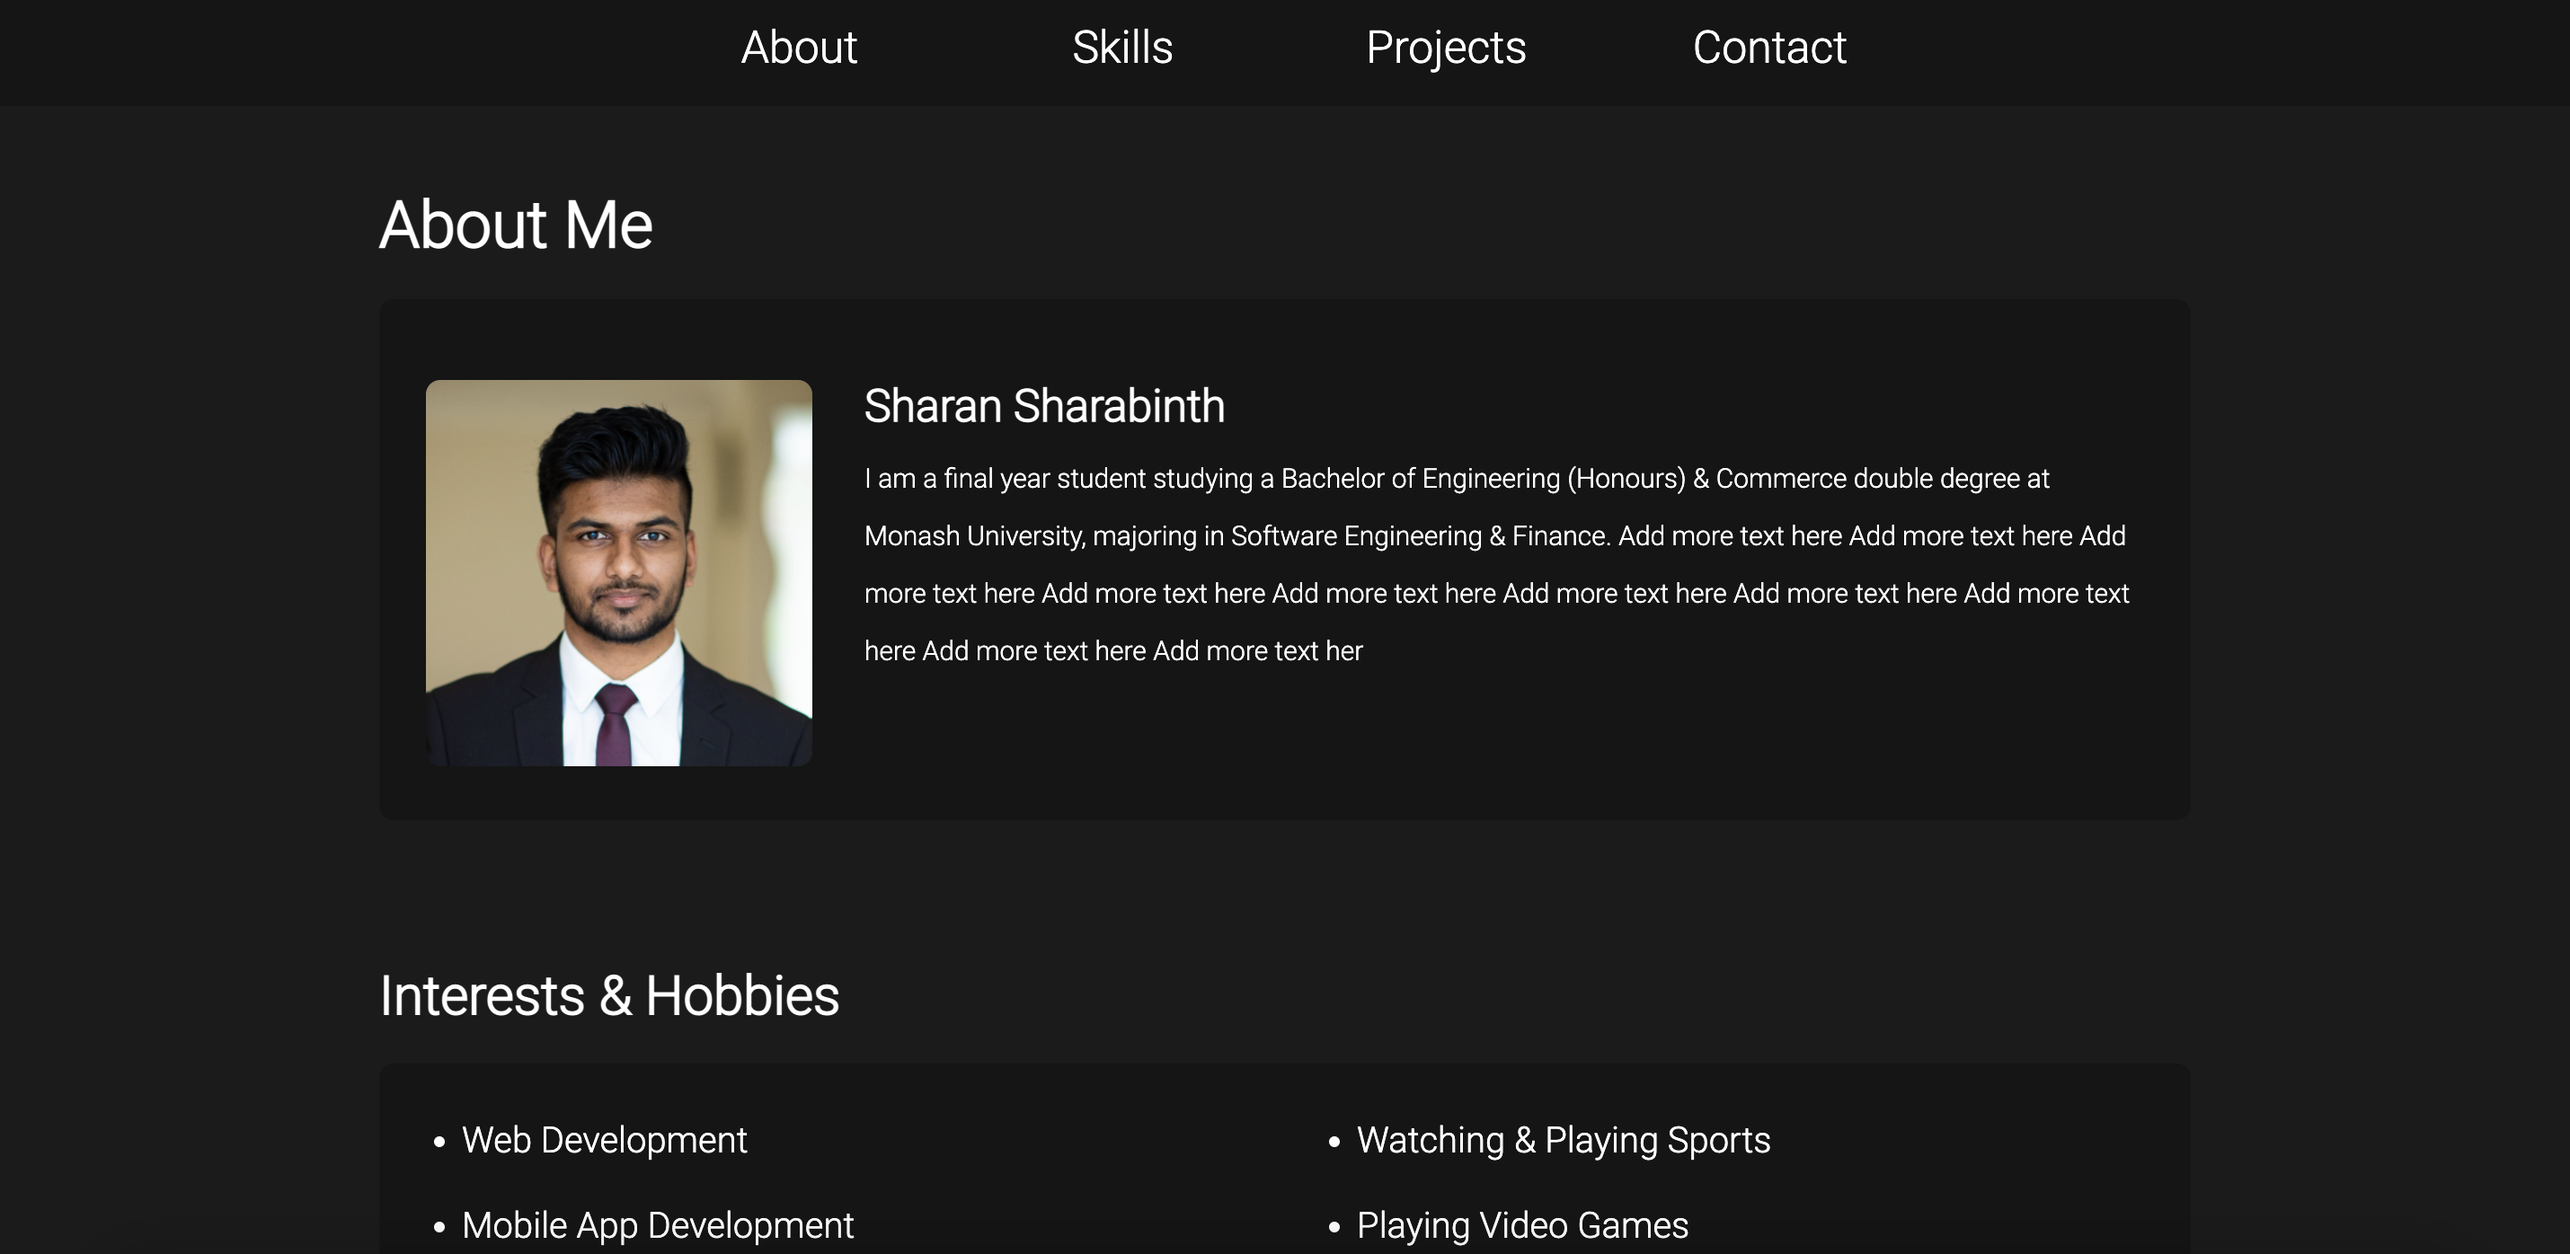
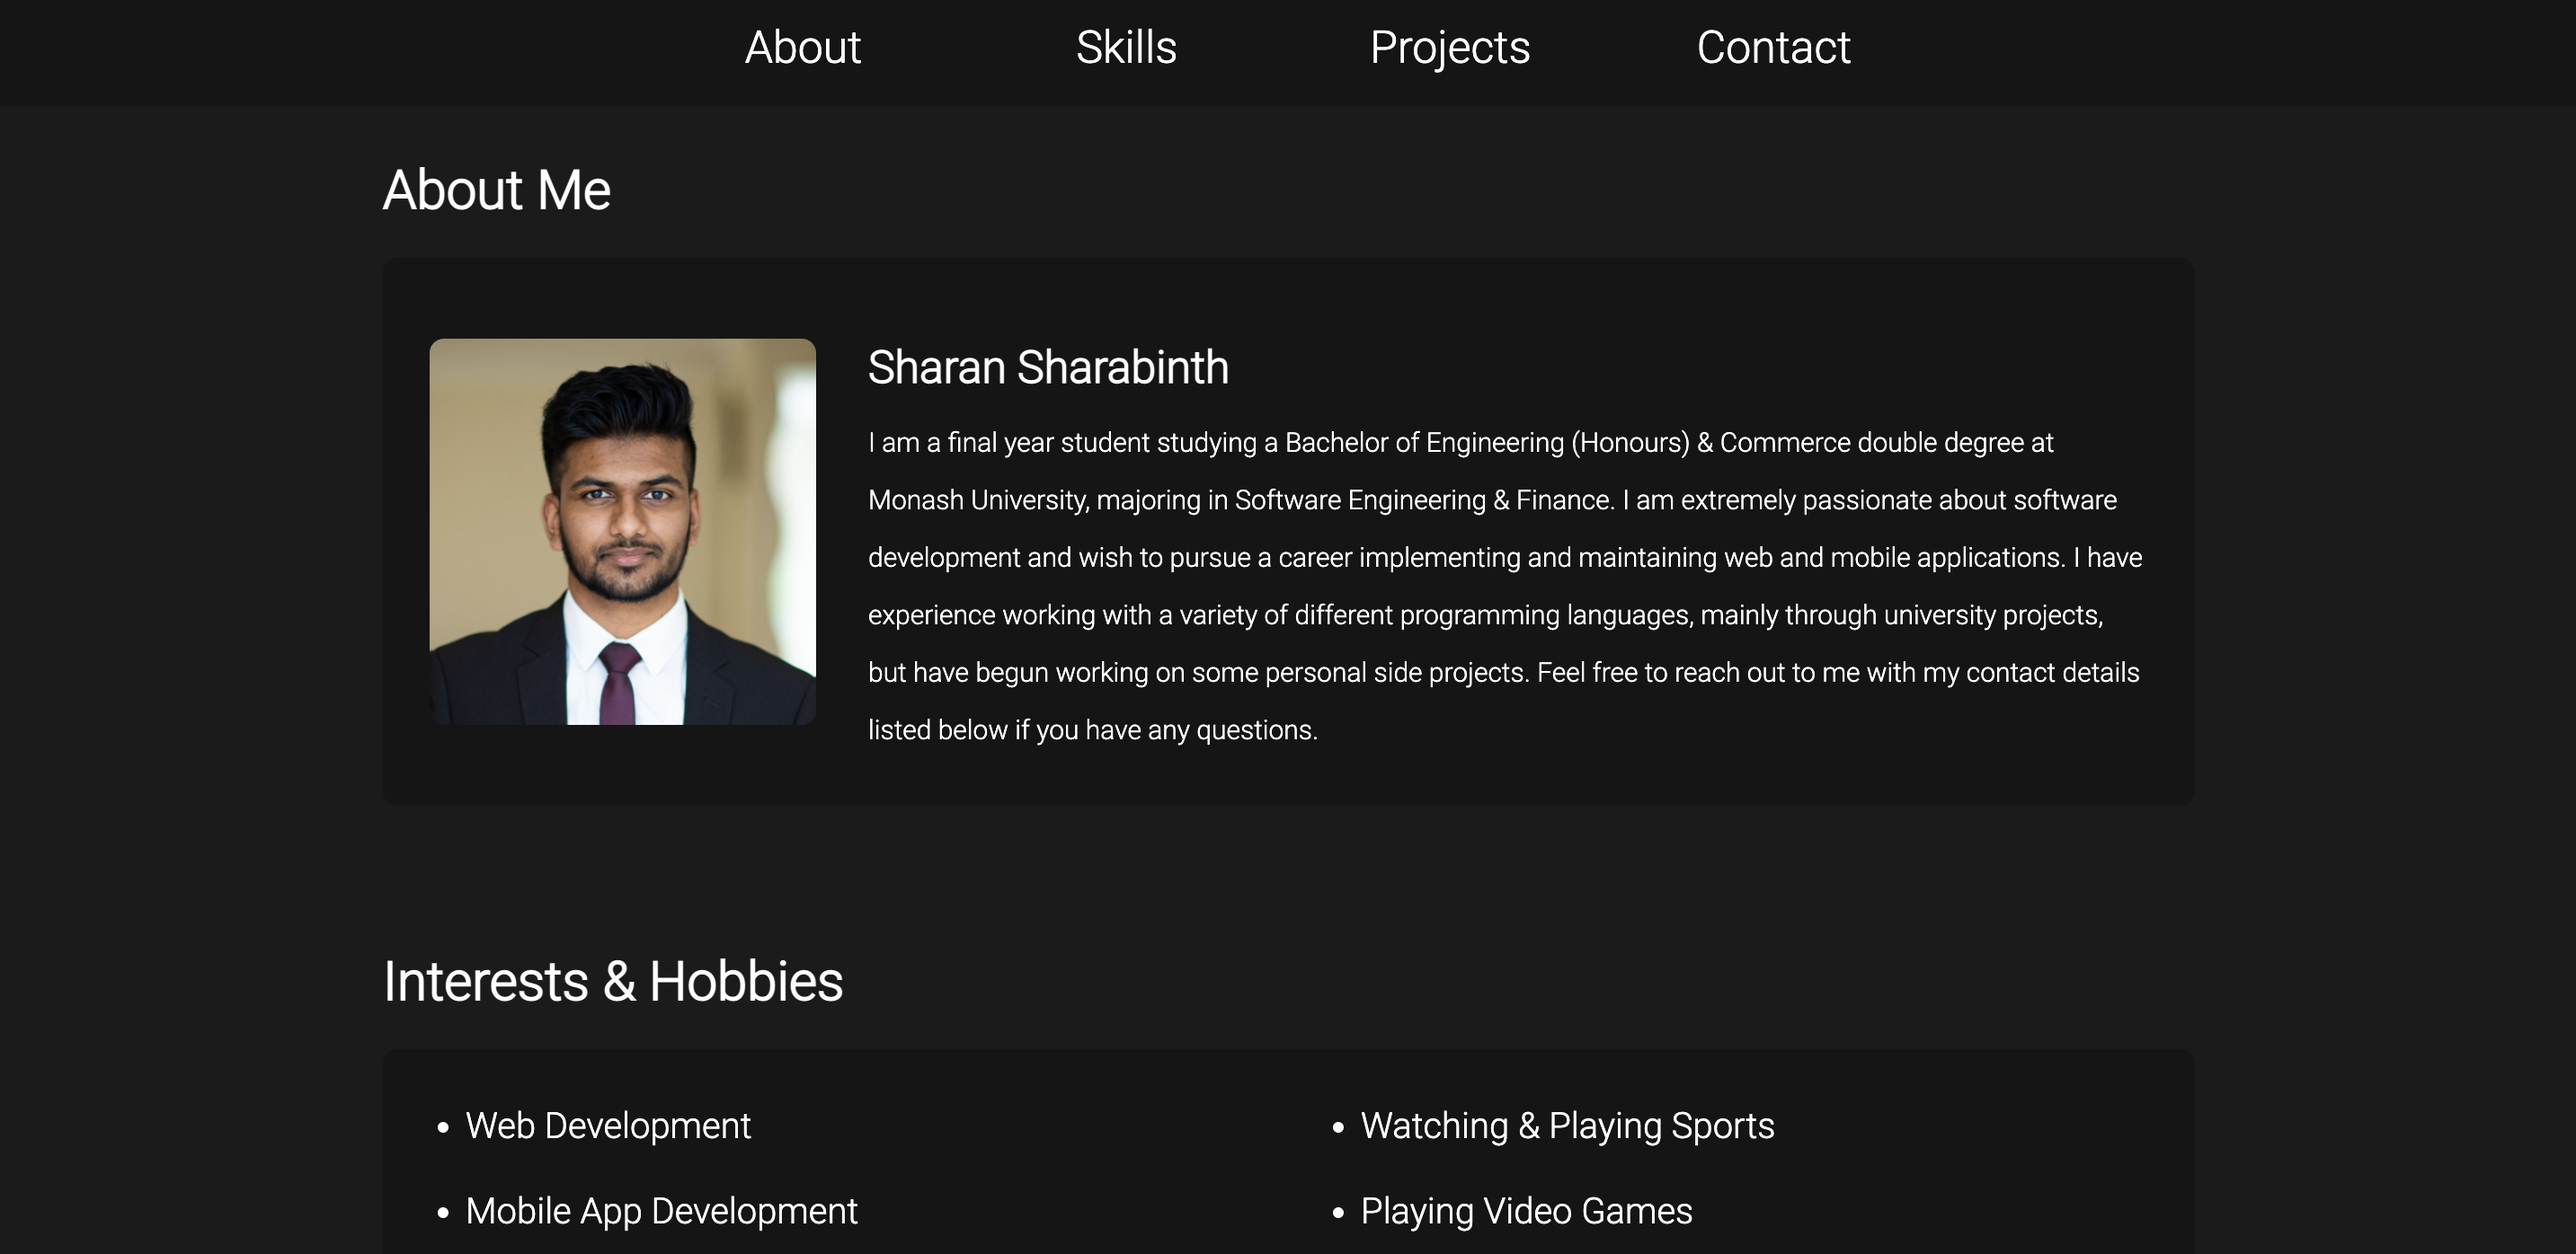
Update skills section

diff --git a/index.html b/index.html
@@ -38,9 +38,11 @@
                         <div class="about-me about-text">
                             <h4 class="about-me-title">Sharan Sharabinth</h4>
                             <p class="about-me-text">
-                                I am a final year student studying a Bachelor of Engineering (Honours) & Commerce double degree at Monash University, majoring in Software Engineering & Finance.
-                                Add more text here Add more text here Add more text here Add more text here Add more text here Add more text here
-                                Add more text here Add more text here Add more text here Add more text her
+                                I am a final year student studying a Bachelor of Engineering (Honours) & Commerce double degree at Monash University, 
+                                majoring in Software Engineering & Finance. I am extremely passionate about software development and wish to pursue a 
+                                career implementing and maintaining web and mobile applications. I have experience working with a variety of different 
+                                programming languages, mainly through university projects, but have begun working on some personal side projects. Feel 
+                                free to reach out to me with my contact details listed below if you have any questions.
                             </p>
                         </div>
                     </div>
@@ -72,6 +74,9 @@
                                 <p>Python</p>
                             </div>
                             <div>
+                                <p>Java</p>
+                            </div>
+                            <div>
                                 <p>JavaScript</p>
                             </div>
                             <div>
@@ -83,23 +88,28 @@
                             <div>
                                 <p>React</p>
                             </div>
+                        </div>
+                        <div class="tech-skills-row-2 flex-row">
                             <div>
                                 <p>AWS CloudFormation</p>
                             </div>
                             <div>
-                                <p>SQL</p>
-                            </div>
-                        </div>
-                        <div class="tech-skills-row-2 flex-row">
-                            <div>
-                                <p>C</p>
+                                <p>Express</p>
                             </div>
                             <div>
                                 <p>NodeJS</p>
                             </div>
                             <div>
-                                <p>Express</p>
+                                <p>MongoDB</p>
                             </div>
+                            <div>
+                                <p>c</p>
+                            </div>
+                            <div>
+                                <p>SQL</p>
+                            </div>
+                        </div>
+                        <div class="tech-skills-row-3 flex-row">
                             <div>
                                 <p>Android Studio</p>
                             </div>
@@ -112,6 +122,12 @@
                             <div>
                                 <p>GIT</p>
                             </div>
+                            <div>
+                                <p>MATLAB</p>
+                            </div>
+                            <div>
+                                <p>SQL</p>
+                            </div>
                         </div>
                     </div>
 
@@ -121,7 +137,7 @@
                         <div class="flex-column">
                             <div class="projects-grid">
                                 <div class="projects-container flex-column">
-                                    <div><img class="project-image" src="./Images/portfolio.png" alt=""></div>
+                                    <div><img class="project-image" src="./Images/portfolio.png" alt="" onclick="window.open('https://man-utd.herokuapp.com/', '_blank')"></div>
                                     <div class="text-container flex-column">
                                         <h5>Portfolio</h5>
                                         <p class="project-desc">My portfolio, which you are currently viewing. This was built from scratch.</p>
@@ -130,7 +146,7 @@
                                 </div>
                     
                                 <div class="projects-container flex-column">
-                                    <div><img class="project-image" src="./Images/man-utd.png" alt=""></div>
+                                    <div><img class="project-image" src="./Images/man-utd.png" alt="" onclick="window.open('https://man-utd.herokuapp.com/', '_blank')"></div>
                                     <div class="text-container flex-column">
                                         <h5>Man-Utd</h5>
                                         <p class="project-desc">A website about the greatest football club in the world, Manchester United.</p>
@@ -139,7 +155,7 @@
                                 </div>
     
                                 <div class="projects-container flex-column">
-                                    <div><img class="project-image" src="./Images/researchify.png" alt=""></div>
+                                    <div><img class="project-image" src="./Images/researchify.png" alt="" onclick="window.open('https://github.com/Researchify/Researchify', '_blank')"></div>
                                     <div class="text-container flex-column">
                                         <h5>Researchify</h5>
                                         <p class="project-desc">A web platform for academic researchers to create their own website to share publications and other information.</p>

diff --git a/styles.css b/styles.css
@@ -189,13 +189,23 @@ nav a:hover {
     justify-content: center;
     gap: 70px;
     flex-wrap: wrap;
+    font-size: 22px;
 }
 
 .tech-skills-row-2 {
     justify-content: center;
+    gap: 80px;
+    flex-wrap: wrap;
+    padding-top: 14px;
+    font-size: 20px;
+}
+
+.tech-skills-row-3 {
+    justify-content: center;
     gap: 70px;
     flex-wrap: wrap;
-    padding-top: 10px;
+    padding-top: 14px;
+    font-size: 20px;
 }
 
 /* Projects section styling */
@@ -231,6 +241,10 @@ nav a:hover {
     border-radius: 8px;
     opacity: 1;
     transition: opacity 0.5s;
+}
+
+.project-image:hover {
+    opacity: 0.2;
 }
   
 .project-desc {
